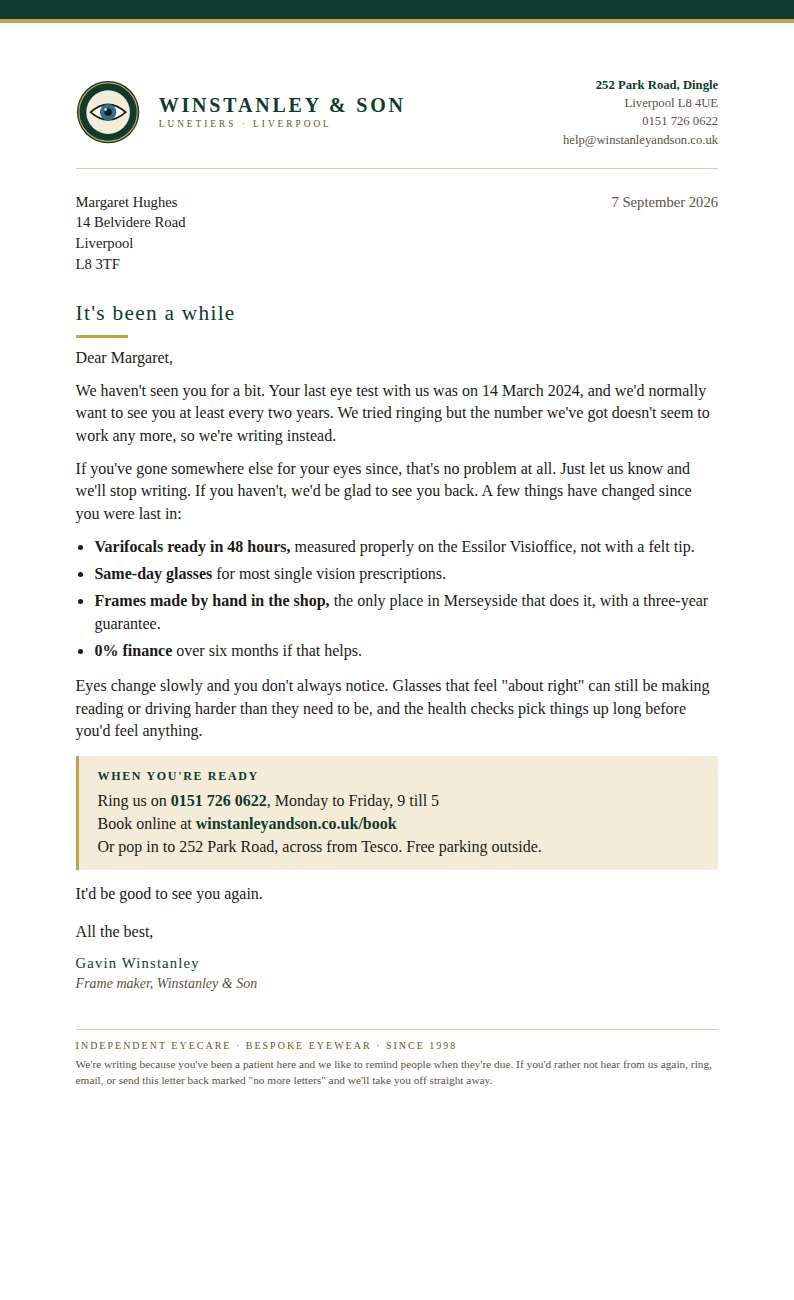
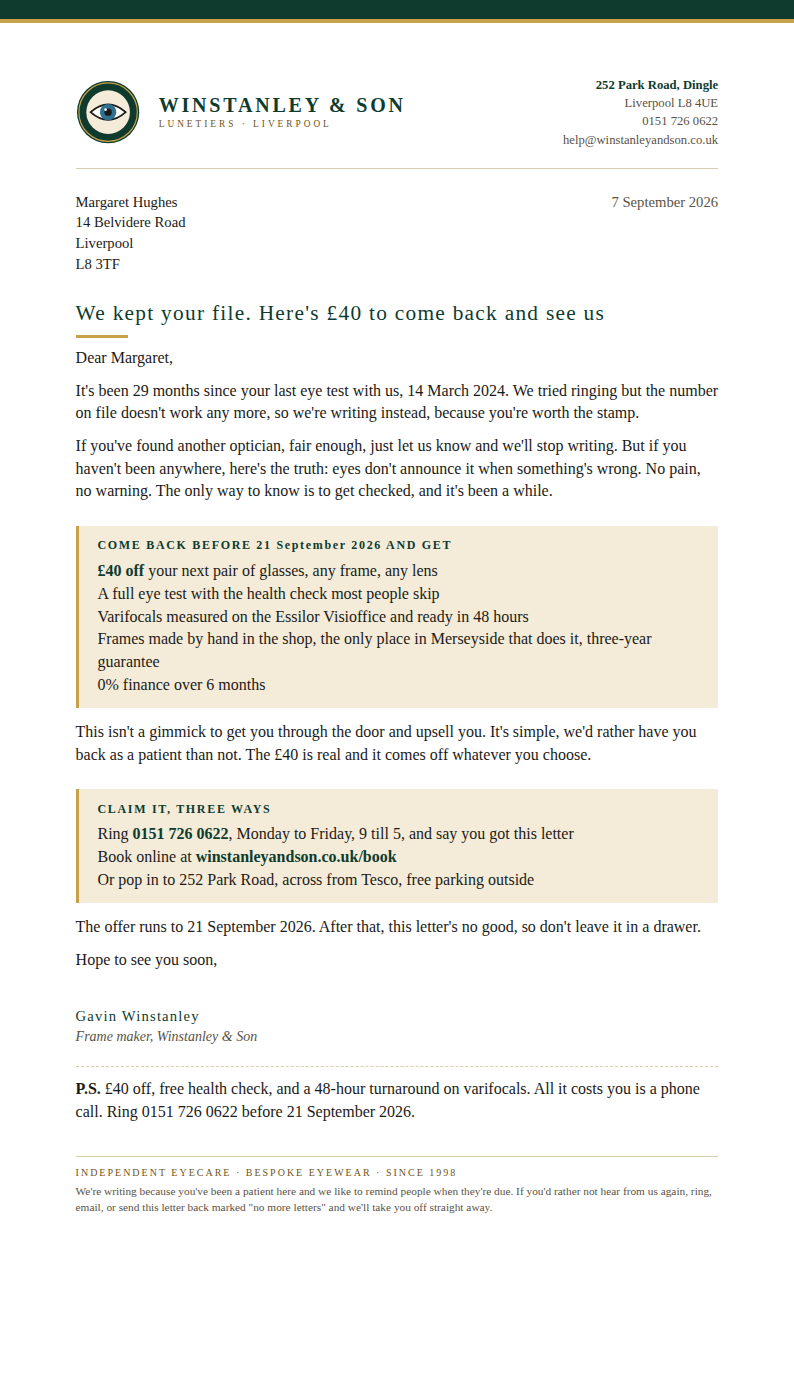
Rewrite letters as direct-response sales letters with a genuine dated offer
Claude-Session: https://claude.ai/code/session_01RZ9dmirfgbEMTdyZc5ae4N

Changed region(s): [[0.0907, 0.0308, 0.9068, 0.8923], [0.6952, 0.0615, 0.9068, 0.1846]]

diff --git a/tools/address-audit/letters/cold-reactivation-letter.html b/tools/address-audit/letters/cold-reactivation-letter.html
@@ -5,7 +5,7 @@
 @page{size:A4;margin:0}
 *{box-sizing:border-box}
 html,body{margin:0;background:#fff;color:var(--ink);font-family:'Cormorant Garamond',Georgia,serif;font-size:12pt;line-height:1.42;-webkit-print-color-adjust:exact;print-color-adjust:exact}
-.page{width:210mm;height:297mm;padding:14mm 20mm 26mm;position:relative;overflow:hidden}
+.page{width:210mm;min-height:297mm;padding:14mm 20mm 26mm;position:relative;display:flex;flex-direction:column}
 .band{position:absolute;left:0;top:0;right:0;height:6mm;background:var(--green);border-bottom:1.2mm solid var(--gold)}
 .head{display:flex;align-items:center;gap:5mm;margin-top:6mm;padding-bottom:5mm;border-bottom:1px solid var(--rule)}
 .head svg{width:17mm;height:17mm;flex-shrink:0}
@@ -25,7 +25,7 @@ ul{margin:0 0 3.2mm;padding-left:5mm} li{margin-bottom:1.2mm}
 .sig{margin-top:4mm}
 .sig .name{font-family:Cinzel,Georgia,serif;font-size:11pt;letter-spacing:.08em;color:var(--green)}
 .sig .role{font-size:10.5pt;color:var(--slate);font-style:italic}
-.foot{position:absolute;left:20mm;right:20mm;bottom:9mm;z-index:2;border-top:1px solid var(--rule);padding-top:2.5mm;font-size:8.5pt;color:var(--slate);line-height:1.4}
+.foot{margin-top:auto;padding-top:6mm}.foot .inner{border-top:1px solid var(--rule);padding-top:2.5mm;font-size:8.5pt;color:var(--slate);line-height:1.4}
 .foot .tag{font-family:Cinzel,Georgia,serif;letter-spacing:.2em;font-size:7.5pt;color:var(--gold-text);margin-bottom:1mm}
 </style></head><body><div class="page"><div class="band"></div>
 <div class="head"><svg viewBox="0 0 330 330" xmlns="http://www.w3.org/2000/svg" width="64" height="64"><circle cx="165" cy="165" r="160" fill="#0e3b2e"/><circle cx="165" cy="165" r="150" fill="none" stroke="#c8a24a" stroke-width="6"/><circle cx="165" cy="165" r="112" fill="#f4ecd9"/><path d="M75 165Q165 85 255 165Q165 245 75 165Z" fill="#fff" stroke="#1b1a17" stroke-width="9"/><circle cx="165" cy="165" r="42" fill="#2f6f8f"/><circle cx="165" cy="165" r="19" fill="#1b1a17"/><circle cx="152" cy="152" r="7" fill="#fff"/></svg><div class="wordmark">WINSTANLEY &amp; SON<small>LUNETIERS · LIVERPOOL</small></div>
@@ -34,22 +34,24 @@ ul{margin:0 0 3.2mm;padding-left:5mm} li{margin-bottom:1.2mm}
 {{contact.address1}}
 {{contact.city}}
 {{contact.postal_code}}</div><div class="date">{{right_now.date}}</div></div>
-<h1>It's been a while</h1>
+<h1>We kept your file. Here's £40 to come back and see us</h1>
 <p>Dear {{contact.first_name}},</p>
-<p>We haven't seen you for a bit. Your last eye test with us was on {{contact.last_exam_date}}, and we'd normally want to see you at least every two years. We tried ringing but the number we've got doesn't seem to work any more, so we're writing instead.</p>
-<p>If you've been somewhere else for your eyes since, that's no problem at all. Just let us know and we'll stop writing. If you haven't, we'd be glad to see you back. A few things have changed since you were last in:</p>
-<ul>
-<li><b>Varifocals ready in 48 hours,</b> measured properly on the Essilor Visioffice, not with a felt tip.</li>
-<li><b>Same-day glasses</b> for most single vision prescriptions.</li>
-<li><b>Frames made by hand in the shop,</b> the only place in Merseyside that does it, with a three-year guarantee.</li>
-<li><b>0% finance</b> over six months if that helps.</li>
-</ul>
-<p>Eyes change slowly and you don't always notice. Glasses that feel "about right" can still be making reading or driving harder than they need to be, and the health checks pick things up long before you'd feel anything.</p>
-<div class="ways"><b>WHEN YOU'RE READY</b>
-Ring us on <b style="display:inline;font-family:inherit;letter-spacing:0;font-size:inherit">0151 726 0622</b>, Monday to Friday, 9 till 5<br>
+<p>It's been {{contact.months_since_exam}} months since your last eye test with us, {{contact.last_exam_date}}. We tried ringing but the number on file doesn't work any more, so we're writing instead, because you're worth the stamp.</p>
+<p>If you've found another optician, fair enough, just let us know and we'll stop writing. But if you haven't been anywhere, here's the truth: eyes don't announce it when something's wrong. No pain, no warning. The only way to know is to get checked, and it's been a while.</p>
+<div class="ways"><b>COME BACK BEFORE {{contact.letter_expiry_date}} AND GET</b>
+<b style="display:inline;font-family:inherit;letter-spacing:0;font-size:inherit">£40 off</b> your next pair of glasses, any frame, any lens<br>
+A full eye test with the health check most people skip<br>
+Varifocals measured on the Essilor Visioffice and ready in 48 hours<br>
+Frames made by hand in the shop, the only place in Merseyside that does it, three-year guarantee<br>
+0% finance over 6 months</div>
+<p>This isn't a gimmick to get you through the door and upsell you. It's simple, we'd rather have you back as a patient than not. The £40 is real and it comes off whatever you choose.</p>
+<div class="ways"><b>CLAIM IT, THREE WAYS</b>
+Ring <b style="display:inline;font-family:inherit;letter-spacing:0;font-size:inherit">0151 726 0622</b>, Monday to Friday, 9 till 5, and say you got this letter<br>
 Book online at <b style="display:inline;font-family:inherit;letter-spacing:0;font-size:inherit">winstanleyandson.co.uk/book</b><br>
-Or pop in to 252 Park Road, across from Tesco. Free parking outside.</div>
-<p>It'd be good to see you again.</p>
-<div class="sig"><p>All the best,</p><div class="name">{{practice.signatory_name}}</div><div class="role">{{practice.signatory_role}}, Winstanley &amp; Son</div></div>
-<div class="foot"><div class="tag">INDEPENDENT EYECARE · BESPOKE EYEWEAR · SINCE 1998</div>We're writing because you've been a patient here and we like to remind people when they're due. If you'd rather not hear from us again, ring, email, or send this letter back marked "no more letters" and we'll take you off straight away.</div>
+Or pop in to 252 Park Road, across from Tesco, free parking outside</div>
+<p>The offer runs to {{contact.letter_expiry_date}}. After that, this letter's no good, so don't leave it in a drawer.</p>
+<p>Hope to see you soon,</p>
+<div class="sig"><p></p><div class="name">{{practice.signatory_name}}</div><div class="role">{{practice.signatory_role}}, Winstanley &amp; Son</div></div>
+<p style="margin-top:5mm;border-top:1px dashed var(--rule);padding-top:3mm"><b>P.S.</b> £40 off, free health check, and a 48-hour turnaround on varifocals. All it costs you is a phone call. Ring 0151 726 0622 before {{contact.letter_expiry_date}}.</p>
+<div class="foot"><div class="inner"><div class="tag">INDEPENDENT EYECARE · BESPOKE EYEWEAR · SINCE 1998</div>We're writing because you've been a patient here and we like to remind people when they're due. If you'd rather not hear from us again, ring, email, or send this letter back marked "no more letters" and we'll take you off straight away.</div></div>
 </div></body></html>

diff --git a/tools/address-audit/letters/recall-letter.html b/tools/address-audit/letters/recall-letter.html
@@ -5,7 +5,7 @@
 @page{size:A4;margin:0}
 *{box-sizing:border-box}
 html,body{margin:0;background:#fff;color:var(--ink);font-family:'Cormorant Garamond',Georgia,serif;font-size:12pt;line-height:1.42;-webkit-print-color-adjust:exact;print-color-adjust:exact}
-.page{width:210mm;height:297mm;padding:14mm 20mm 26mm;position:relative;overflow:hidden}
+.page{width:210mm;min-height:297mm;padding:14mm 20mm 26mm;position:relative;display:flex;flex-direction:column}
 .band{position:absolute;left:0;top:0;right:0;height:6mm;background:var(--green);border-bottom:1.2mm solid var(--gold)}
 .head{display:flex;align-items:center;gap:5mm;margin-top:6mm;padding-bottom:5mm;border-bottom:1px solid var(--rule)}
 .head svg{width:17mm;height:17mm;flex-shrink:0}
@@ -25,7 +25,7 @@ ul{margin:0 0 3.2mm;padding-left:5mm} li{margin-bottom:1.2mm}
 .sig{margin-top:4mm}
 .sig .name{font-family:Cinzel,Georgia,serif;font-size:11pt;letter-spacing:.08em;color:var(--green)}
 .sig .role{font-size:10.5pt;color:var(--slate);font-style:italic}
-.foot{position:absolute;left:20mm;right:20mm;bottom:9mm;z-index:2;border-top:1px solid var(--rule);padding-top:2.5mm;font-size:8.5pt;color:var(--slate);line-height:1.4}
+.foot{margin-top:auto;padding-top:6mm}.foot .inner{border-top:1px solid var(--rule);padding-top:2.5mm;font-size:8.5pt;color:var(--slate);line-height:1.4}
 .foot .tag{font-family:Cinzel,Georgia,serif;letter-spacing:.2em;font-size:7.5pt;color:var(--gold-text);margin-bottom:1mm}
 </style></head><body><div class="page"><div class="band"></div>
 <div class="head"><svg viewBox="0 0 330 330" xmlns="http://www.w3.org/2000/svg" width="64" height="64"><circle cx="165" cy="165" r="160" fill="#0e3b2e"/><circle cx="165" cy="165" r="150" fill="none" stroke="#c8a24a" stroke-width="6"/><circle cx="165" cy="165" r="112" fill="#f4ecd9"/><path d="M75 165Q165 85 255 165Q165 245 75 165Z" fill="#fff" stroke="#1b1a17" stroke-width="9"/><circle cx="165" cy="165" r="42" fill="#2f6f8f"/><circle cx="165" cy="165" r="19" fill="#1b1a17"/><circle cx="152" cy="152" r="7" fill="#fff"/></svg><div class="wordmark">WINSTANLEY &amp; SON<small>LUNETIERS · LIVERPOOL</small></div>
@@ -34,16 +34,23 @@ ul{margin:0 0 3.2mm;padding-left:5mm} li{margin-bottom:1.2mm}
 {{contact.address1}}
 {{contact.city}}
 {{contact.postal_code}}</div><div class="date">{{right_now.date}}</div></div>
-<h1>Your eye test is due</h1>
+<h1>Your eyes have been waiting long enough</h1>
 <p>Dear {{contact.first_name}},</p>
-<p>It's time for your eye test. Your last one with us was on {{contact.last_exam_date}}, and we said we'd see you again about now. We tried ringing you on {{contact.phone}} but couldn't get through, so we thought we'd write instead.</p>
-<p>An eye test isn't just about whether your glasses need changing. We check the health of your eyes too, and we can spot things like glaucoma and cataracts early, when they're much easier to deal with. Even if your glasses feel fine, it's worth coming in.</p>
-<div class="ways"><b>TO BOOK</b>
-Ring us on <b style="display:inline;font-family:inherit;letter-spacing:0;font-size:inherit">0151 726 0622</b>, Monday to Friday, 9 till 5<br>
+<p>Straight to it: your eye test is overdue. Last one was {{contact.last_exam_date}}, and we tried ringing on {{contact.phone}} but couldn't get through.</p>
+<p>Here's why that matters. Most people only book an eye test when something feels wrong, headaches, blurry print, squinting at the telly. But the things that really cost you, glaucoma, cataracts, the early signs of diabetes, don't hurt and don't show up until real damage is done. A test now is the cheapest insurance you'll buy this year.</p>
+<div class="ways"><b>BOOK BEFORE {{contact.letter_expiry_date}} AND YOU GET</b>
+A full eye test, health check included, no rushing<br>
+<b style="display:inline;font-family:inherit;letter-spacing:0;font-size:inherit">Free anti-glare, anti-scratch upgrade</b> on any pair you order, worth £89, on us<br>
+Varifocals fitted properly on the Essilor Visioffice and ready in 48 hours, not weeks<br>
+0% finance over 6 months if you'd rather spread it</div>
+<p>No catch. It's simple, we'd rather see you than send you a second letter. This offer runs out on {{contact.letter_expiry_date}}, after that it's back to the normal price.</p>
+<div class="ways"><b>BOOK NOW, THREE WAYS</b>
+Ring <b style="display:inline;font-family:inherit;letter-spacing:0;font-size:inherit">0151 726 0622</b>, Monday to Friday, 9 till 5<br>
 Book online at <b style="display:inline;font-family:inherit;letter-spacing:0;font-size:inherit">winstanleyandson.co.uk/book</b><br>
-Or just pop in. We're at 252 Park Road, across from Tesco, with free parking outside.</div>
-<p>If you've been somewhere else for your eyes since we last saw you, or your number's changed, give us a quick ring and we'll update your records so we're not chasing you for nothing.</p>
-<p>Hope to see you soon.</p>
-<div class="sig"><p>Kind regards,</p><div class="name">{{practice.signatory_name}}</div><div class="role">{{practice.signatory_role}}, Winstanley &amp; Son</div></div>
-<div class="foot"><div class="tag">INDEPENDENT EYECARE · BESPOKE EYEWEAR · SINCE 1998</div>If you get a free NHS eye test, please bring proof with you. If you'd rather we didn't write to you, just ring or email and we'll take you off the list.</div>
+Or just pop in. 252 Park Road, across from Tesco, free parking outside</div>
+<p>If you've had your eyes done elsewhere since we last saw you, no bother, give us a quick ring so we can update your file and stop writing.</p>
+<p>See you soon,</p>
+<div class="sig"><p></p><div class="name">{{practice.signatory_name}}</div><div class="role">{{practice.signatory_role}}, Winstanley &amp; Son</div></div>
+<p style="margin-top:5mm;border-top:1px dashed var(--rule);padding-top:3mm"><b>P.S.</b> The free upgrade only applies if you book before {{contact.letter_expiry_date}}. Ring 0151 726 0622 today and we'll get you booked in this week.</p>
+<div class="foot"><div class="inner"><div class="tag">INDEPENDENT EYECARE · BESPOKE EYEWEAR · SINCE 1998</div>If you get a free NHS eye test, please bring proof with you. If you'd rather we didn't write to you, just ring or email and we'll take you off the list.</div></div>
 </div></body></html>

diff --git a/tools/address-audit/letters/cold-reactivation-letter.md b/tools/address-audit/letters/cold-reactivation-letter.md
@@ -1,26 +1,29 @@
 # Cold reactivation letter (bands: 12-24m, 24-36m)
 
-Plain copy of cold-reactivation-letter.html. Run deceased screening and the PAF cleanse before any send to these bands.
+Direct-response version, led with a genuine £40 offer and a deadline. Run deceased screening and the PAF cleanse before any send to these bands. Needs `contact.letter_expiry_date`.
 
-# It's been a while
+# We kept your file. Here's £40 to come back and see us
 
 Dear {{contact.first_name}},
-We haven't seen you for a bit. Your last eye test with us was on {{contact.last_exam_date}}, and we'd normally want to see you at least every two years. We tried ringing but the number we've got doesn't seem to work any more, so we're writing instead.
-If you've been somewhere else for your eyes since, that's no problem at all. Just let us know and we'll stop writing. If you haven't, we'd be glad to see you back. A few things have changed since you were last in:
+It's been {{contact.months_since_exam}} months since your last eye test with us, {{contact.last_exam_date}}. We tried ringing but the number on file doesn't work any more, so we're writing instead, because you're worth the stamp.
+If you've found another optician, fair enough, just let us know and we'll stop writing. But if you haven't been anywhere, here's the truth: eyes don't announce it when something's wrong. No pain, no warning. The only way to know is to get checked, and it's been a while.
+**COME BACK BEFORE {{contact.letter_expiry_date}} AND GET**  
 
-Varifocals ready in 48 hours, measured properly on the Essilor Visioffice, not with a felt tip.
-Same-day glasses for most single vision prescriptions.
-Frames made by hand in the shop, the only place in Merseyside that does it, with a three-year guarantee.
-0% finance over six months if that helps.
+£40 off your next pair of glasses, any frame, any lens
+A full eye test with the health check most people skip
+Varifocals measured on the Essilor Visioffice and ready in 48 hours
+Frames made by hand in the shop, the only place in Merseyside that does it, three-year guarantee
+0% finance over 6 months
+This isn't a gimmick to get you through the door and upsell you. It's simple, we'd rather have you back as a patient than not. The £40 is real and it comes off whatever you choose.
+**CLAIM IT, THREE WAYS**  
 
-Eyes change slowly and you don't always notice. Glasses that feel "about right" can still be making reading or driving harder than they need to be, and the health checks pick things up long before you'd feel anything.
-**WHEN YOU'RE READY**  
-
-Ring us on 0151 726 0622, Monday to Friday, 9 till 5
+Ring 0151 726 0622, Monday to Friday, 9 till 5, and say you got this letter
 Book online at winstanleyandson.co.uk/book
-Or pop in to 252 Park Road, across from Tesco. Free parking outside.
-It'd be good to see you again.
-All the best,{{practice.signatory_name}}{{practice.signatory_role}}, Winstanley & Son
+Or pop in to 252 Park Road, across from Tesco, free parking outside
+The offer runs to {{contact.letter_expiry_date}}. After that, this letter's no good, so don't leave it in a drawer.
+Hope to see you soon,
+{{practice.signatory_name}}{{practice.signatory_role}}, Winstanley & Son
+P.S. £40 off, free health check, and a 48-hour turnaround on varifocals. All it costs you is a phone call. Ring 0151 726 0622 before {{contact.letter_expiry_date}}.
 
 ---
 

diff --git a/tools/address-audit/letters/recall-letter.md b/tools/address-audit/letters/recall-letter.md
@@ -1,20 +1,28 @@
 # Recall letter (bands: due30, 0-6m)
 
-Plain copy of recall-letter.html.
+Direct-response version: leads with the offer and a deadline. Needs `contact.letter_expiry_date` set (date sent + 14 days) by the workflow that sends it.
 
-# Your eye test is due
+# Your eyes have been waiting long enough
 
 Dear {{contact.first_name}},
-It's time for your eye test. Your last one with us was on {{contact.last_exam_date}}, and we said we'd see you again about now. We tried ringing you on {{contact.phone}} but couldn't get through, so we thought we'd write instead.
-An eye test isn't just about whether your glasses need changing. We check the health of your eyes too, and we can spot things like glaucoma and cataracts early, when they're much easier to deal with. Even if your glasses feel fine, it's worth coming in.
-**TO BOOK**  
+Straight to it: your eye test is overdue. Last one was {{contact.last_exam_date}}, and we tried ringing on {{contact.phone}} but couldn't get through.
+Here's why that matters. Most people only book an eye test when something feels wrong, headaches, blurry print, squinting at the telly. But the things that really cost you, glaucoma, cataracts, the early signs of diabetes, don't hurt and don't show up until real damage is done. A test now is the cheapest insurance you'll buy this year.
+**BOOK BEFORE {{contact.letter_expiry_date}} AND YOU GET**  
 
-Ring us on 0151 726 0622, Monday to Friday, 9 till 5
+A full eye test, health check included, no rushing
+Free anti-glare, anti-scratch upgrade on any pair you order, worth £89, on us
+Varifocals fitted properly on the Essilor Visioffice and ready in 48 hours, not weeks
+0% finance over 6 months if you'd rather spread it
+No catch. It's simple, we'd rather see you than send you a second letter. This offer runs out on {{contact.letter_expiry_date}}, after that it's back to the normal price.
+**BOOK NOW, THREE WAYS**  
+
+Ring 0151 726 0622, Monday to Friday, 9 till 5
 Book online at winstanleyandson.co.uk/book
-Or just pop in. We're at 252 Park Road, across from Tesco, with free parking outside.
-If you've been somewhere else for your eyes since we last saw you, or your number's changed, give us a quick ring and we'll update your records so we're not chasing you for nothing.
-Hope to see you soon.
-Kind regards,{{practice.signatory_name}}{{practice.signatory_role}}, Winstanley & Son
+Or just pop in. 252 Park Road, across from Tesco, free parking outside
+If you've had your eyes done elsewhere since we last saw you, no bother, give us a quick ring so we can update your file and stop writing.
+See you soon,
+{{practice.signatory_name}}{{practice.signatory_role}}, Winstanley & Son
+P.S. The free upgrade only applies if you book before {{contact.letter_expiry_date}}. Ring 0151 726 0622 today and we'll get you booked in this week.
 
 ---
 

diff --git a/tools/address-audit/letters/README.md b/tools/address-audit/letters/README.md
@@ -8,8 +8,29 @@ template editor; the fonts load from Google Fonts and fall back to Georgia. The 
 block sits at 20mm left / ~46mm top to suit a standard C5 window envelope.
 
 Merge fields used: contact.first_name, last_name, address1, city, postal_code, phone,
-last_exam_date, months_since_exam; right_now.date; practice.signatory_name,
-practice.signatory_role.
+last_exam_date, months_since_exam, letter_expiry_date; right_now.date;
+practice.signatory_name, practice.signatory_role.
+
+## Style: direct response, not a reminder note
+
+Both letters lead with the offer, not the appointment. Headline, a short reason it matters,
+the offer as a bulleted stack with a deadline, three ways to book, then a P.S. that repeats
+the deadline. This is deliberate: a plain recall notice gets filed, an offer with a real
+expiry date gets acted on.
+
+**The offer must be real.** `letter_expiry_date` is set by the sending workflow, not typed
+by hand, so it's always send date + 14 days and never stale. Don't shorten the window for
+effect, and don't send the same offer twice to someone who let the first one lapse without
+checking with reception first, repeated "deadlines" that aren't real is what turns a good
+letter into junk mail.
+
+- Recall letter offer: free anti-glare/anti-scratch upgrade (normally £89) on any pair
+  ordered before the deadline.
+- Reactivation letter offer: £40 off the next pair, any frame, any lens.
+
+Both are placeholder amounts. Confirm the real margin on these before the first live send,
+lens upgrades and frame discounts need sign-off from whoever prices jobs, not a copywriter.
+
 
 | File | Bands | Trigger |
 |------|-------|---------|

diff --git a/tools/address-audit/automation/ghl-workflows.md b/tools/address-audit/automation/ghl-workflows.md
@@ -6,7 +6,7 @@ Three workflows plus the custom fields and tags they rely on. Build in this orde
 
 Custom fields (Contact): `visionpms_id` (text), `last_exam_date` (date), `months_since_exam` (number),
 `recall_band` (text), `address_synced` (date), `last_dialer_outcome` (text), `last_dialer_date` (date),
-`address_validated` (date).
+`address_validated` (date), `letter_expiry_date` (date, set by the send step to today + 14 days).
 
 Tags: `address_bad`, `address_corrected`, `address_incomplete`, `deceased_suspected`, `dnc_post`,
 `dnc_phone`, `phone_bad`, `phone_unreached`, `letter_requested`, `letter_sent`.
@@ -48,8 +48,9 @@ Trigger: manual / bulk action from a smart list.
 Smart list: `recall_band` in (12-24m, 24-36m) AND `address_validated` within last 180 days AND
 no tags `address_bad`, `deceased_suspected`, `dnc_post`, `address_incomplete`, and `letter_sent`
 older than 90 days or absent.
-Steps: Webhook with `stannp_template_cold`, then tag `letter_sent` and set `letter_sent_date`.
-Add a 5-minute wait between batches of 50 so Stannp rate limits are not hit.
+Steps: set `letter_expiry_date` = today + 14 days, Webhook with `stannp_template_cold`, then tag
+`letter_sent` and set `letter_sent_date`. Add a 5-minute wait between batches of 50 so Stannp
+rate limits are not hit.
 
 ## Stannp webhook (for step 1.5 and workflow 3)
 
